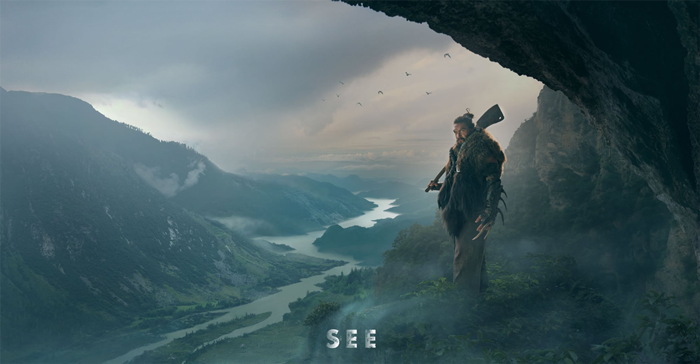
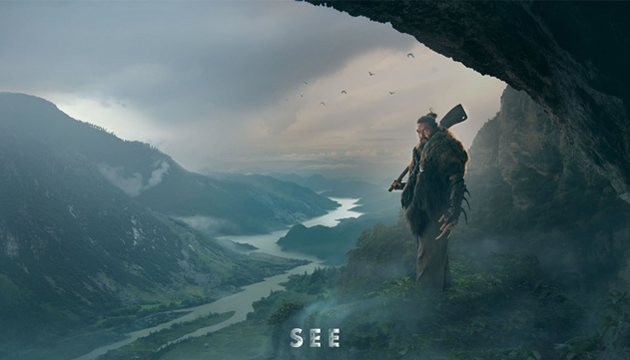
added tv section + images

diff --git a/index.html b/index.html
@@ -407,6 +407,71 @@
                                 </td>
                             </tr>
                             <!-- ipad section -->
+
+
+                            <!-- tv+ section -->
+                            <tr>
+                                <td style="padding-top: 10px;">
+                                    <table align="center" border="0" cellspacing="0" cellpadding="0" width="100%" role="presentation" style="min-width: 100%;" bgcolor="#ffffff">
+                                        
+                                        <tr>
+                                            <td style="padding-top: 0px; padding-bottom:0px">
+                                                <table cellpadding="0" cellspacing="0" border="0" height="360" width="100%" id="watchImgContainer">
+                                                    <tr>
+                                                        <td background="img5-tv.png" bgcolor="#ffffff" valign="top" style="background-position: center;" >
+                                                            <!--[if gte mso 9]>
+                                                            <v:rect xmlns:v="urn:schemas-microsoft-com:vml" fill="true" stroke="false" style="mso-width-percent:1000;height:360px;">
+                                                              <v:fill type="tile" src="img5-tv.png" color="#ffffff" />
+                                                              <v:textbox inset="0,0,0,0">
+                                                            <![endif]-->
+                                                            <div align="center">
+                                                                <table cellpadding="0" cellspacing="0" border="0" height="360" width="100%" id="watchImgContainer">
+                                                                    <tr>
+                                                                        <td valign="top" align="center" style="padding: 50px 0 0 0;" bgcolor="transparent">
+                                                                            <img src="logo-apple-tv.png"  width="75" style="margin: 0; padding-bottom: 10px;">
+                                                                            
+                                                                            <h3 style="font-size: 20px; font-weight: 500; color: #ffffff; margin: 0; padding-bottom: 5px; letter-spacing:.5px;">
+                                                                                Stories to believe in.
+                                                                            </h3>
+                                                                            <p style="font-size: 14px; font-weight: 400; color: #ffffff; margin: 0; padding-bottom: 5px; letter-spacing:.5px;">
+                                                                                Watch on the Apple TV app.&#42;&#42;
+                                                                            </p>
+                                                                            <p style="font-size: 14px; font-weight: 400; color: #ffffff; margin: 0; padding-bottom: 5px;">
+                                                                                November 1.
+                                                                            </p>
+                                                                            <p style="margin: 0; padding-bottom: 5px;">
+                                                                                <div>
+                                                                                    <!--[if mso]>
+                                                                                    <v:rect xmlns:v="urn:schemas-microsoft-com:vml" xmlns:w="urn:schemas-microsoft-com:office:word" href="#" style="height:20px;v-text-anchor:middle;width:100px;" stroke="f" fillcolor="#ffffff">
+                                                                                    <w:anchorlock/>
+                                                                                    <center>
+                                                                                    <![endif]-->
+                                                                                    <a href="#" style="background-color:transparent;color:#ffffff;display:inline-block;font-family:sans-serif;font-size:14px;font-weight:300;line-height:20px;text-align:center;text-decoration:none;width:110px;-webkit-text-size-adjust:none;">
+                                                                                        Learn more<span> &rang;</span>
+                                                                                    </a>
+                                                                                    <!--[if mso]>
+                                                                                    </center>
+                                                                                    </v:rect>
+                                                                                    <![endif]-->
+                                                                                </div>
+                                                                            </p>
+                                                                        </td>
+                                                                    </tr>
+                                                                </table>
+                                                            </div>
+                                                            <!--[if gte mso 9]>
+                                                              </v:textbox>
+                                                            </v:rect>
+                                                            <![endif]-->
+                                                        </td>
+                                                    </tr>
+                                                </table>
+                                            </td>
+                                        </tr>
+                                    </table>
+                                </td>
+                            </tr>
+                            <!-- tv+ section -->
                             
                             
 
